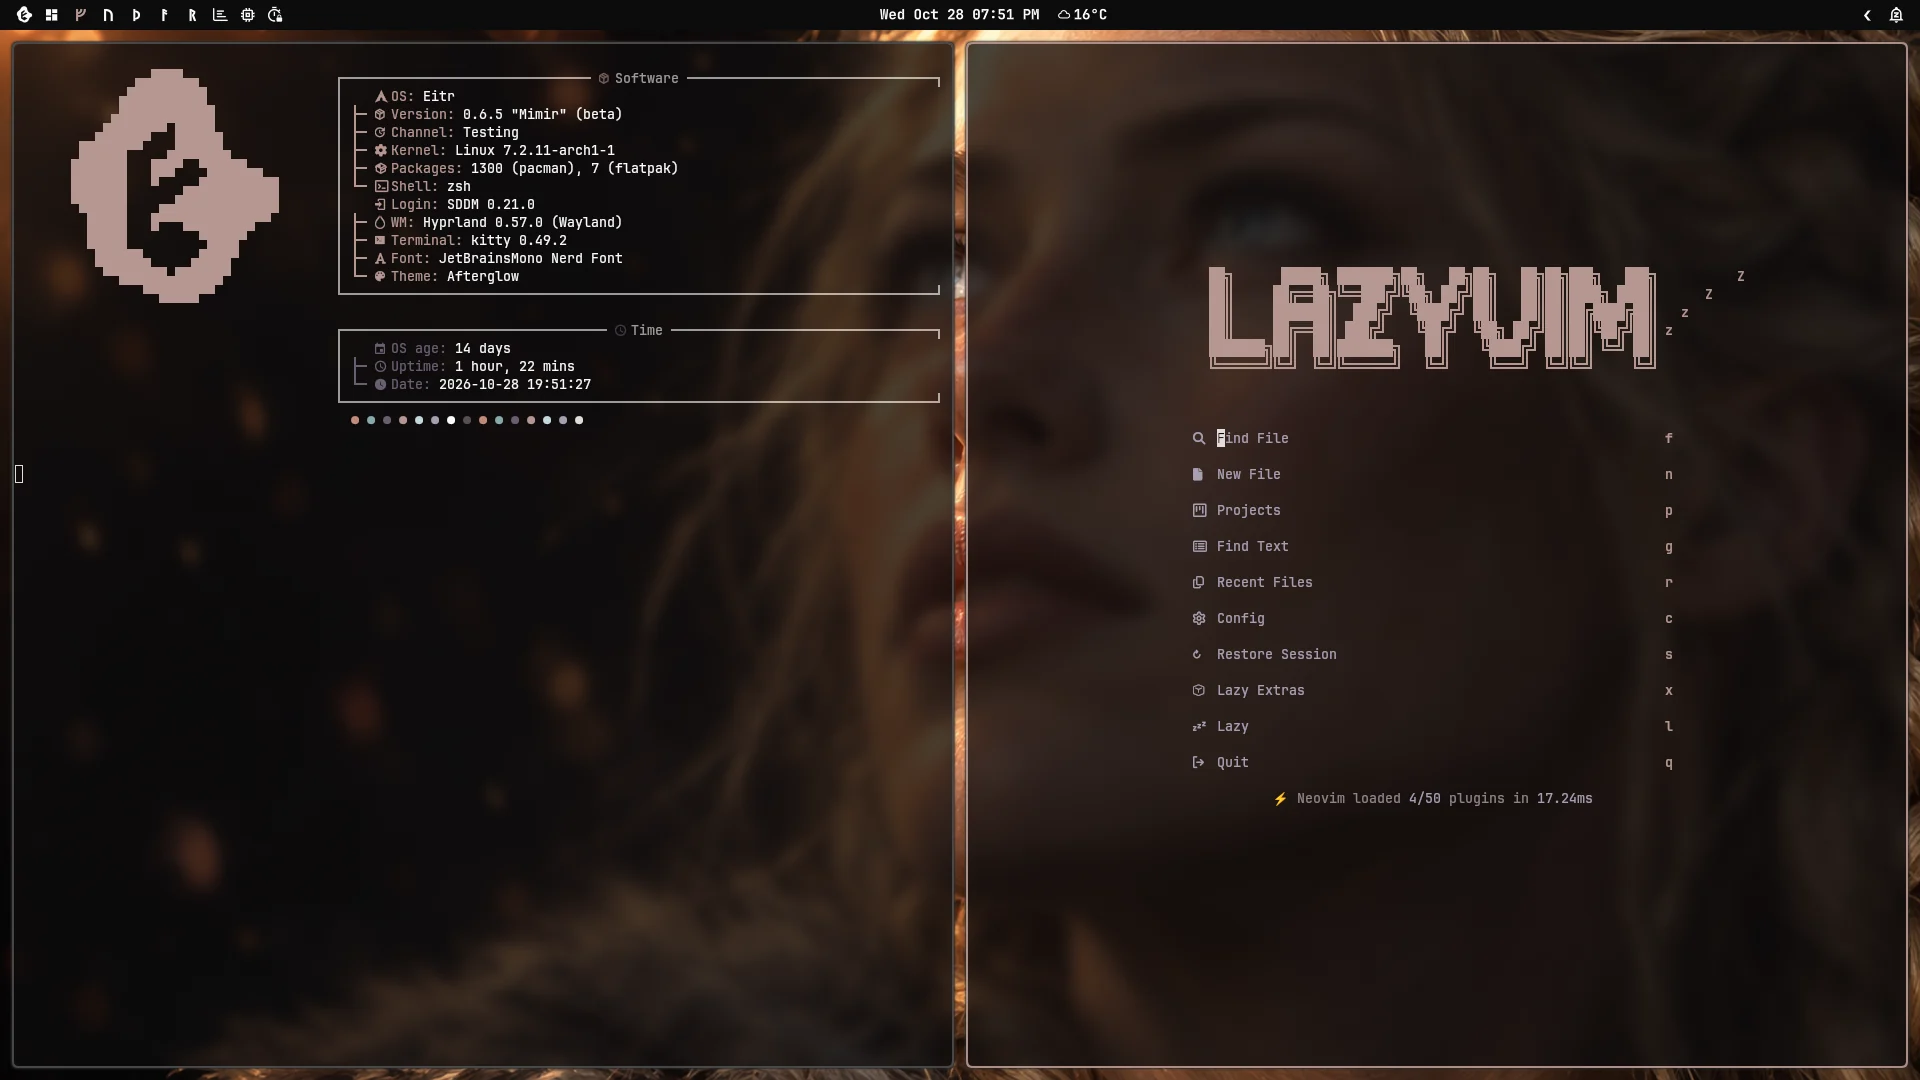
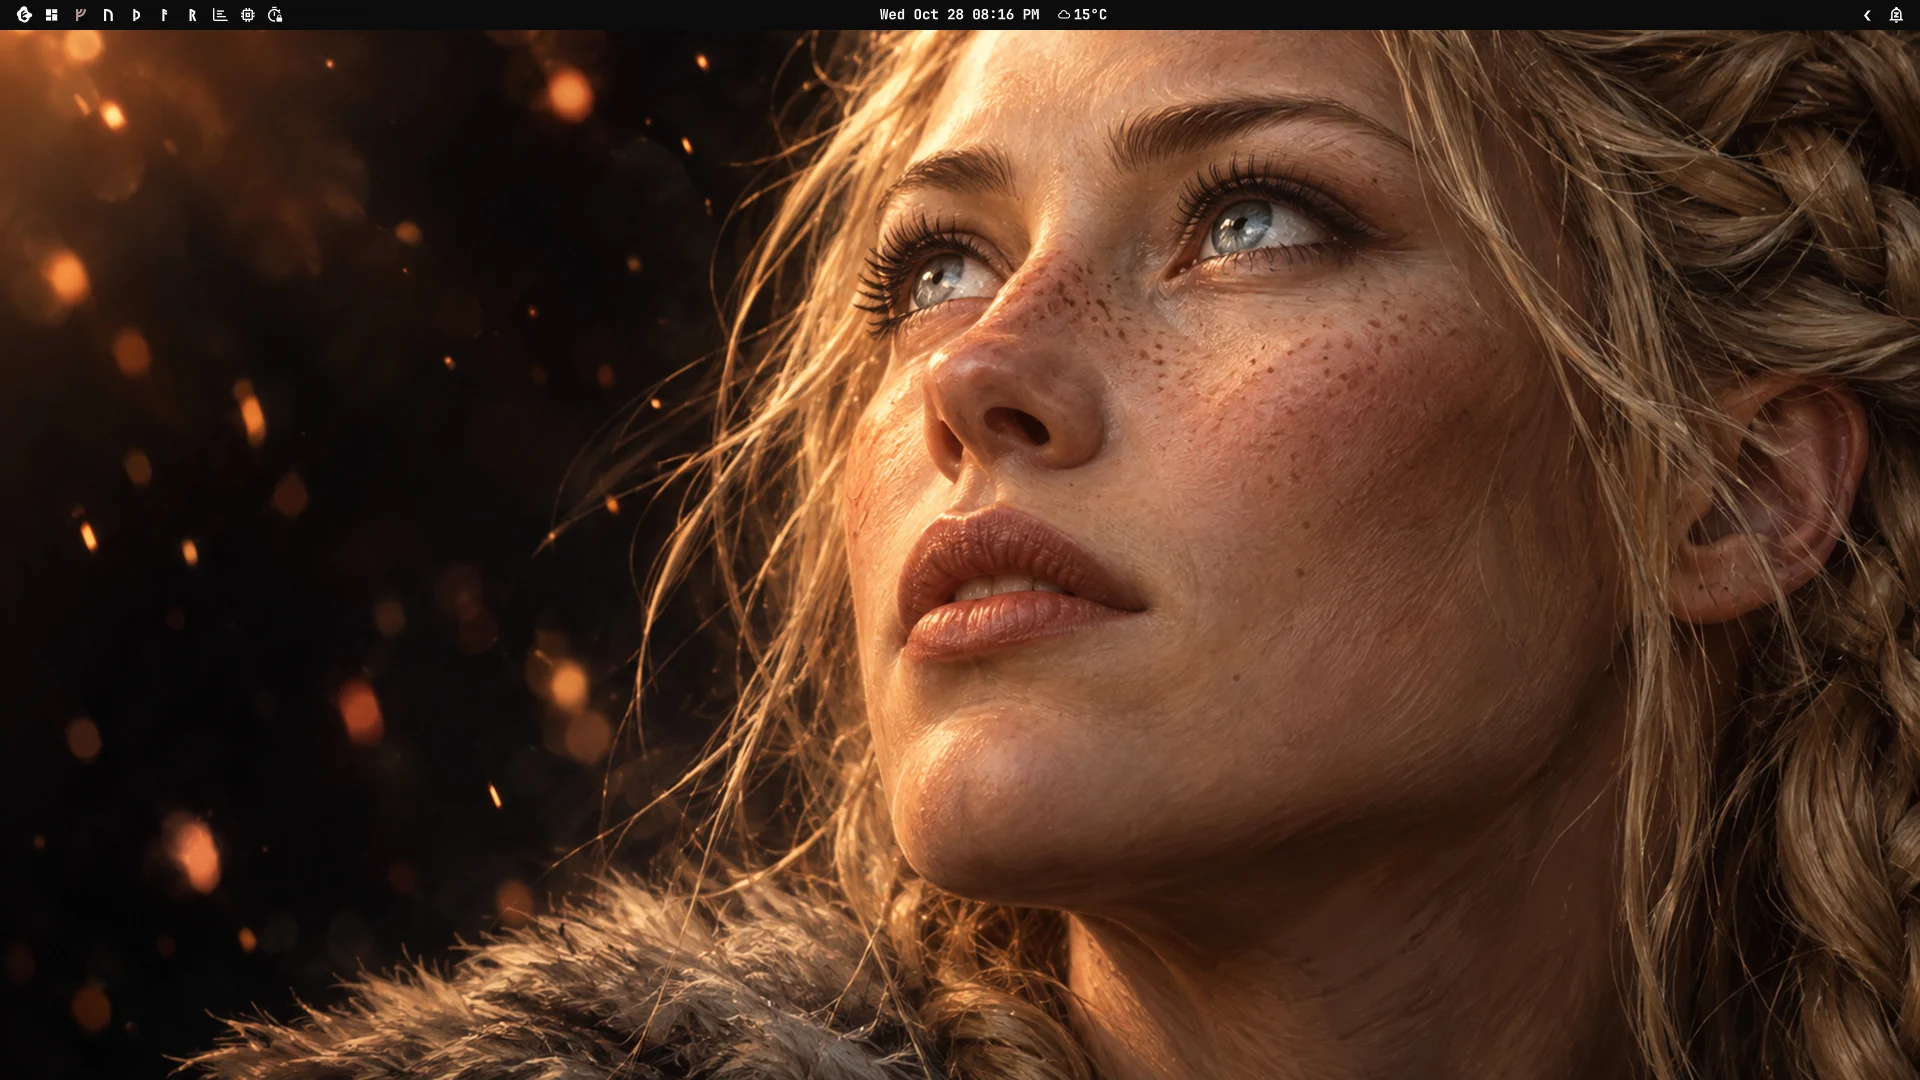
Website: empty desktop shot, tighter sections, status in the roadmap, Ragnarök backdrop
The desktop feature shows a bare Afterglow desktop. What it is aligns its picture
with the dossier, with less padding; feature sections and Themes sit closer. The
release status moves into The road to Bifröst, and the download area uses
Ragnarök's Blood Eclipse instead of Yggdrasil. Terminal cursors are removed from
the About and hero shots.

diff --git a/website/src/styles/global.css b/website/src/styles/global.css
@@ -141,9 +141,10 @@ em { font-style: italic; color: var(--accent); }
 .glowable:hover::before { opacity: 1; }
 
 /* What it is */
-.what { display: grid; grid-template-columns: 1fr 1fr; gap: 72px; align-items: center; padding: 140px 0 100px; }
-.what-art { position: relative; border-radius: 4px; overflow: hidden; aspect-ratio: 4 / 5; box-shadow: 0 40px 120px #00000099; }
-.what-art img { width: 100%; height: 100%; object-fit: cover; object-position: 72% 50%; transition: transform 6s ease; }
+.what { display: grid; grid-template-columns: 1fr 1fr; gap: 72px; align-items: stretch; padding: 48px 0; }
+.what-art { position: relative; border-radius: 4px; overflow: hidden; min-height: 100%; box-shadow: 0 40px 120px #00000099; }
+.what-copy > :last-child { margin-bottom: 0; }
+.what-art img { position: absolute; inset: 0; width: 100%; height: 100%; object-fit: cover; object-position: 72% 50%; transition: transform 6s ease; }
 .what-art:hover img { transform: scale(1.06); }
 .what-art::after { content: ""; position: absolute; inset: 0; box-shadow: inset 0 0 0 1px var(--line-strong), inset 0 -120px 120px -40px var(--bg); }
 .what-heading { grid-column: 1 / -1; position: relative; margin-bottom: -24px; }
@@ -176,7 +177,7 @@ em { font-style: italic; color: var(--accent); }
 .stone > p:not(.label) { font-size: 13px; }
 
 /* Calm feature rows and the complete screenshot gallery. */
-.homepage-feature { display: grid; grid-template-columns: minmax(0, 1fr) minmax(0, 1.6fr); align-items: center; gap: clamp(32px, 6vw, 88px); padding-block: 80px; }
+.homepage-feature { display: grid; grid-template-columns: minmax(0, 1fr) minmax(0, 1.6fr); align-items: center; gap: clamp(32px, 6vw, 88px); padding-block: 40px; }
 .homepage-feature:nth-of-type(even) { grid-template-columns: minmax(0, 1.6fr) minmax(0, 1fr); }
 .homepage-feature:nth-of-type(even) .feature-copy { order: 2; }
 .feature-copy h2 { font-size: clamp(30px, 3vw, 46px); margin-bottom: 24px; }
@@ -223,7 +224,7 @@ em { font-style: italic; color: var(--accent); }
 @media (max-width: 760px) { .support-card { flex-direction: column; align-items: flex-start; } }
 
 /* Themes */
-.themes-section { padding: 120px 0 80px; background: radial-gradient(80% 60% at 50% 0%, #a8323a14, transparent), var(--night); border-block: 1px solid var(--line); margin-top: 80px; }
+.themes-section { padding: 48px 0 80px; background: radial-gradient(80% 60% at 50% 0%, #a8323a14, transparent), var(--night); border-block: 1px solid var(--line); margin-top: 80px; }
 .theme-grid { display: grid; grid-template-columns: repeat(4, 1fr); gap: 14px; }
 .theme-card { border-radius: 4px; border: 1px solid var(--line); background: var(--surface); transition: transform 0.4s, border-color 0.4s; }
 .theme-card img { width: 100%; aspect-ratio: 16 / 9; object-fit: cover; filter: grayscale(0.85) brightness(0.55); transition: filter 0.6s, transform 1s; }
@@ -237,8 +238,10 @@ em { font-style: italic; color: var(--accent); }
 
 /* Install */
 .install { position: relative; padding: 140px 0 60px; }
-.install-art { position: absolute; inset: 60px 0 auto 40%; height: 520px; z-index: -1; background-size: cover; background-position: 70% 50%; opacity: 0.35; mask-image: radial-gradient(closest-side, #000 30%, transparent); }
+.install-art { position: absolute; inset: 60px 0 auto 40%; height: 520px; z-index: -1; background-size: cover; background-position: 50% 45%; opacity: 0.5; mask-image: radial-gradient(closest-side, #000 30%, transparent); }
 .install-grid { display: grid; grid-template-columns: repeat(2, 1fr); gap: 18px; }
+.road-status { display: grid; gap: 12px; max-width: 760px; margin: 0 0 40px; padding: 22px 26px; border: 1px solid #a8323a33; border-radius: 4px; background: #0c0a0ae8; }
+.road-status .label { color: var(--bronze); display: flex; align-items: center; gap: 10px; }
 .install-card { padding: 30px; border: 1px solid var(--line); border-radius: 4px; background: #130f0fdd; backdrop-filter: blur(8px); display: grid; gap: 14px; align-content: start; }
 .download-button { justify-self: start; }
 .download-checksum { font-size: 11px; }
@@ -246,7 +249,6 @@ em { font-style: italic; color: var(--accent); }
 .install-card .label { color: var(--bronze); display: flex; align-items: center; gap: 10px; }
 .install-card h3 { font-family: var(--serif); font-size: 30px; letter-spacing: 0; font-weight: 500; }
 .install-card pre { margin: 6px 0 0; padding: 12px 14px; border-radius: 3px; background: #070505; border: 1px solid var(--line); overflow-x: auto; font-size: 11.5px; color: var(--accent); }
-.install-card.status { border-color: #a8323a33; }
 
 /* Road to Bifröst */
 .road { list-style: none; padding: 0; border-left: 1px solid; border-image: linear-gradient(180deg, var(--accent), var(--violet), var(--bronze)) 1; margin-left: 22px; }
@@ -339,7 +341,6 @@ em { font-style: italic; color: var(--accent); }
 .stone:nth-child(3n+1) .stone-symbol{color:#d9a865}
 .stone:nth-child(3n) .stone-symbol{color:var(--bronze)}
 .install-card{background:#0c0a0ae8;border-color:#b08d5733}
-.install-card.status{background:#0c0a0ae8;border-color:#a8323a33}
 .road .current{background:#ffffff03}
 .hero-lightning{mix-blend-mode:screen}
 @media(max-width:600px){.what{padding-inline:20px}}
@@ -558,8 +559,6 @@ kbd{font:inherit;color:var(--fg)}
 body.menu-open { overflow: hidden; }
 .page-rail { display: none; }
 .install-grid { align-items: stretch; }
-.install-card.status { display: flex; flex-direction: column; gap: 14px; }
-.install-card.status > .text-link { margin-top: auto; align-self: flex-start; }
 @media (min-width: 1100px) {
   .inner-page { display: grid; grid-template-columns: minmax(0, 780px) minmax(230px, 1fr); gap: 64px; width: min(1200px, calc(100% - 48px)); margin: 0 auto; }
   .inner-content { min-width: 0; }

diff --git a/website/src/styles/appearance.css b/website/src/styles/appearance.css
@@ -33,7 +33,7 @@ html[data-appearance="light"] .hero h1,html[data-appearance="light"] .hero h1 em
 html[data-appearance="light"] .hero-copy .lead{color:var(--muted)}
 html[data-appearance="light"] .hero .aurora-sky[data-running="true"]{opacity:1}
 html[data-appearance="light"] .impact-emblem{background:var(--fg)}
-html[data-appearance="light"] .what,html[data-appearance="light"] .themes-section,html[data-appearance="light"] .stone,html[data-appearance="light"] .install-card,html[data-appearance="light"] .install-card.status,html[data-appearance="light"] .support-card{background:var(--surface);border-color:var(--line-strong)}
+html[data-appearance="light"] .what,html[data-appearance="light"] .themes-section,html[data-appearance="light"] .stone,html[data-appearance="light"] .install-card,html[data-appearance="light"] .road-status,html[data-appearance="light"] .support-card{background:var(--surface);border-color:var(--line-strong)}
 html[data-appearance="light"] .button.ghost{background:#fff6;color:var(--fg)}
 html[data-appearance="light"] .button.primary{color:#fff3e7;background:#91313b;border-color:#91313b;box-shadow:0 8px 30px #91313b1a}
 html[data-appearance="light"] .realm-dialog{background:var(--surface);color:var(--fg);border-color:var(--bronze)}

diff --git a/website/src/data/screenshots.ts b/website/src/data/screenshots.ts
@@ -5,8 +5,8 @@ export const screenshotGroups = [
     "shots": [
       {
         "file": "desktop",
-        "caption": "The desktop: About and Neovim side by side",
-        "alt": "The Eitr desktop in the Afterglow theme with About on the left and Neovim on the right",
+        "caption": "The desktop, nothing open",
+        "alt": "The empty Eitr desktop in the Afterglow theme with the bar along the top",
         "width": 1920,
         "height": 1080
       },
